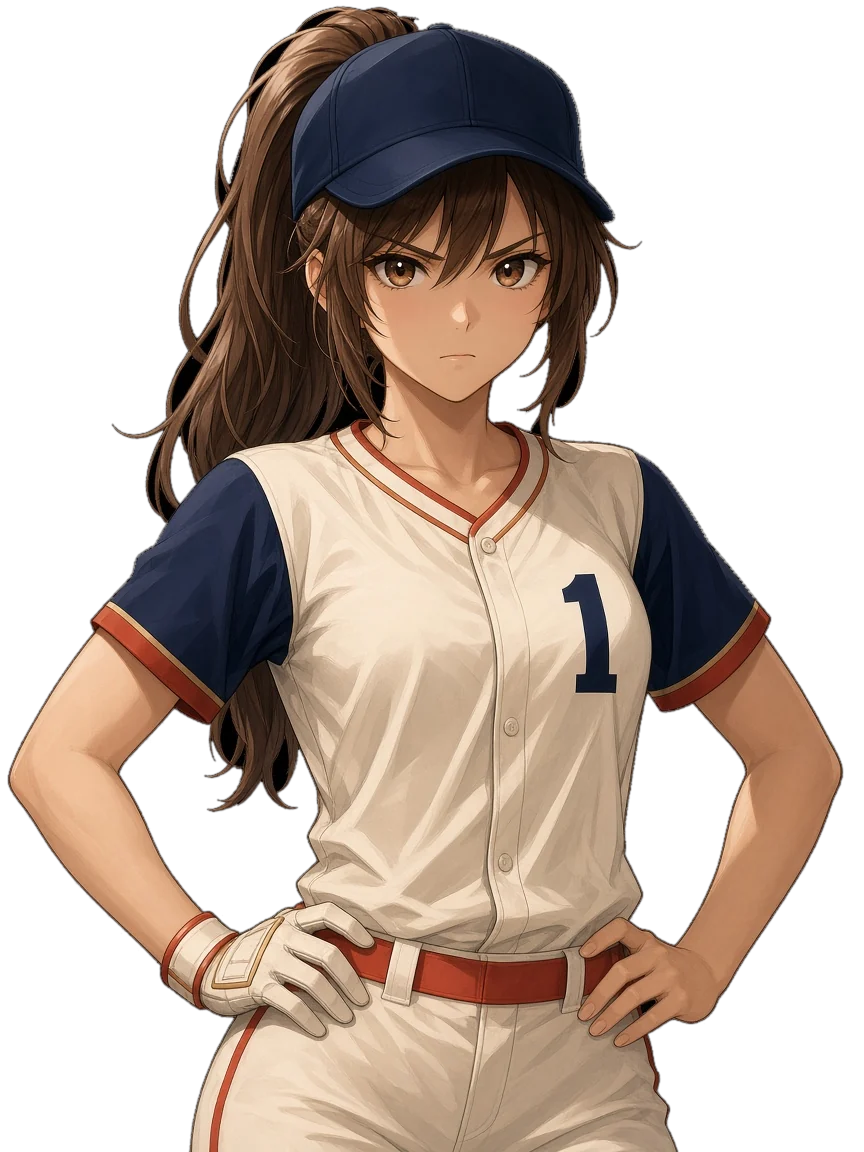
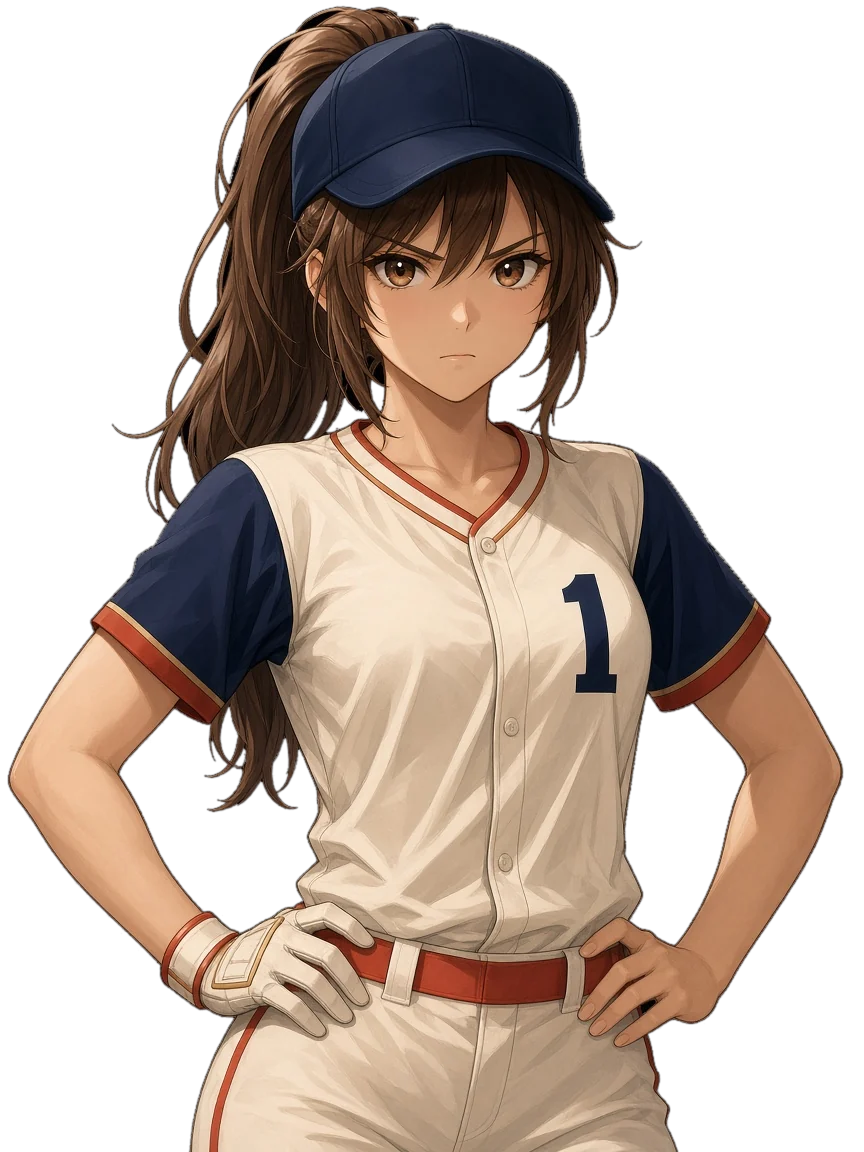
Re-key the busts with a finer pocket pass: pure-black gaps down to 40 px are backdrop, which clears the black scallops between Sol's curls; pupils and dark hair aren't pure black, so they stay.

diff --git a/scripts/key-busts.py b/scripts/key-busts.py
@@ -31,7 +31,7 @@ STEMS = {
 MOODS = ["neutral", "focused", "elated", "crushed"]
 BAKED_BACKDROP = {("kira", "neutral"), ("yuki", "neutral")}
 BG_MAX = 8  # the backdrop is pure black; hair and glove shadows sit around 11-20, so they stay
-POCKET_MIN_PX = 700  # an enclosed pure-black pocket this big (hands on hips) is backdrop too
+POCKET_MIN_PX = 40  # an enclosed pure-black pocket this big is backdrop too (hands on hips, gaps between Sol's curls); pupils and dark hair aren't pure black
 POCKET_MEDIAN_MAX = 3
 EDGE_MAX = 60  # pixels this dark within two of the backdrop fade out (anti-aliased edges)
 
